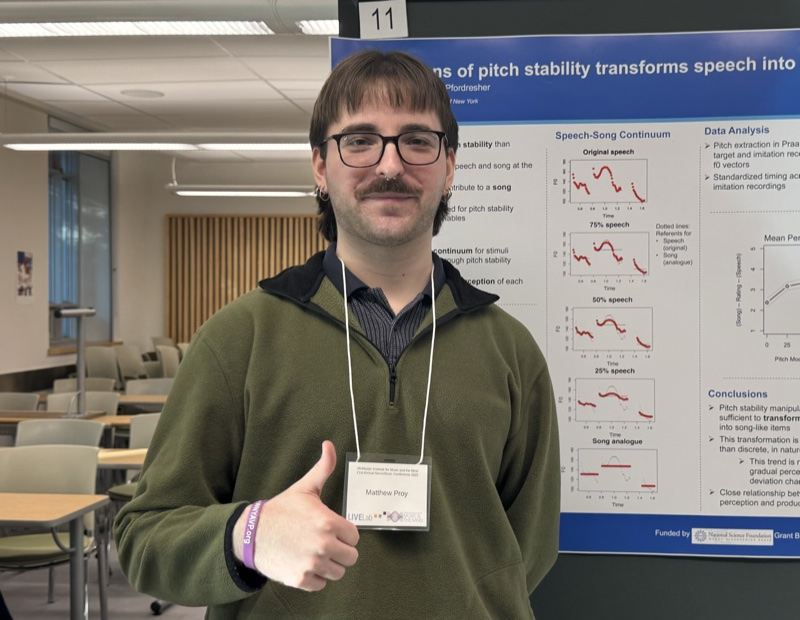
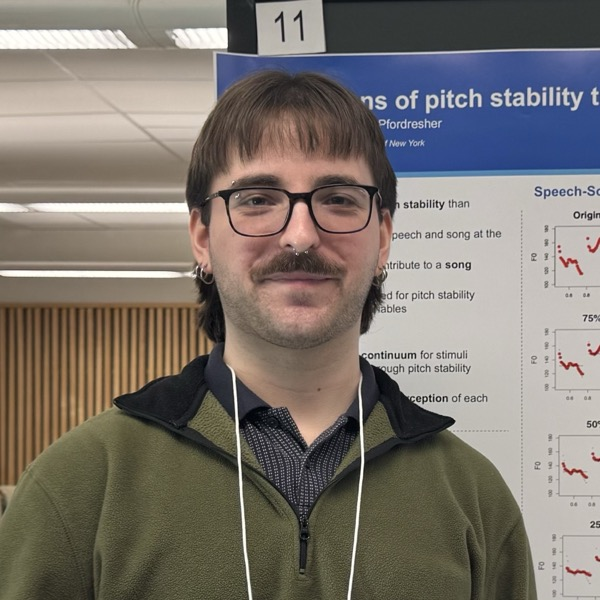
Round, square-cropped photo

diff --git a/_layouts/default.html b/_layouts/default.html
@@ -7,7 +7,7 @@
 {% seo %}
     <link rel="stylesheet" href="{{ "/assets/css/style.css?v=" | append: site.github.build_revision | relative_url }}">
     <style>
-      header img.photo { width: 60%; border-radius: 4px; }
+      header img.photo { width: 60%; aspect-ratio: 1 / 1; object-fit: cover; border-radius: 50%; }
       header .links a, header .links span { margin-right: 10px; }
     </style>
   </head>
